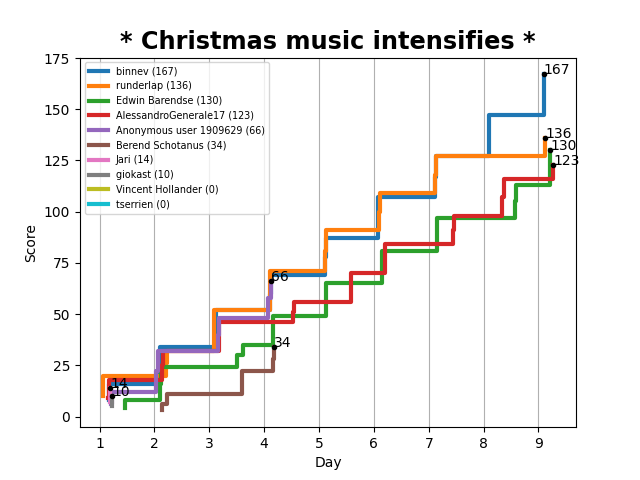
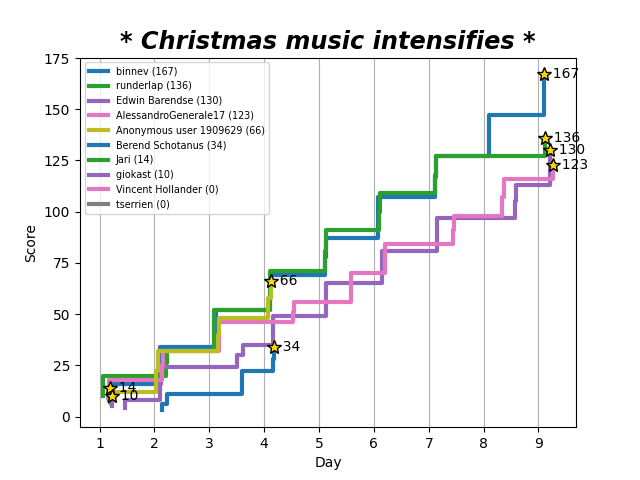
Leaderboard now has stars as line endpoints. Golden stars.

diff --git a/python/_2022/stats/leaderboard.py b/python/_2022/stats/leaderboard.py
@@ -95,11 +95,29 @@ def plot_results(data: dict):
         )
         if any(timestamps):
             last = timestamps[-1]
-            ax.plot(last, final_score, ".k")
-            ax.text(x=last, y=final_score, s=str(final_score))
+            ax.plot(
+                last,
+                final_score,
+                marker="*",
+                markersize=10,
+                markeredgewidth=1,
+                markeredgecolor="black",
+                markerfacecolor="gold",
+            )
+            ax.text(
+                x=last,
+                y=final_score,
+                s=f"  {final_score}",
+                horizontalalignment="left",
+                verticalalignment="center",
+            )
     ax.legend(loc="best", fontsize="x-small")
-    ax.set_title("* Christmas music intensifies *", weight="bold", fontsize="xx-large")
-    plt.show()
+    ax.set_title(
+        "* Christmas music intensifies *",
+        weight="bold",
+        style="italic",
+        fontsize="xx-large",
+    )
     fig.savefig("leaderboard.png")
 
 
